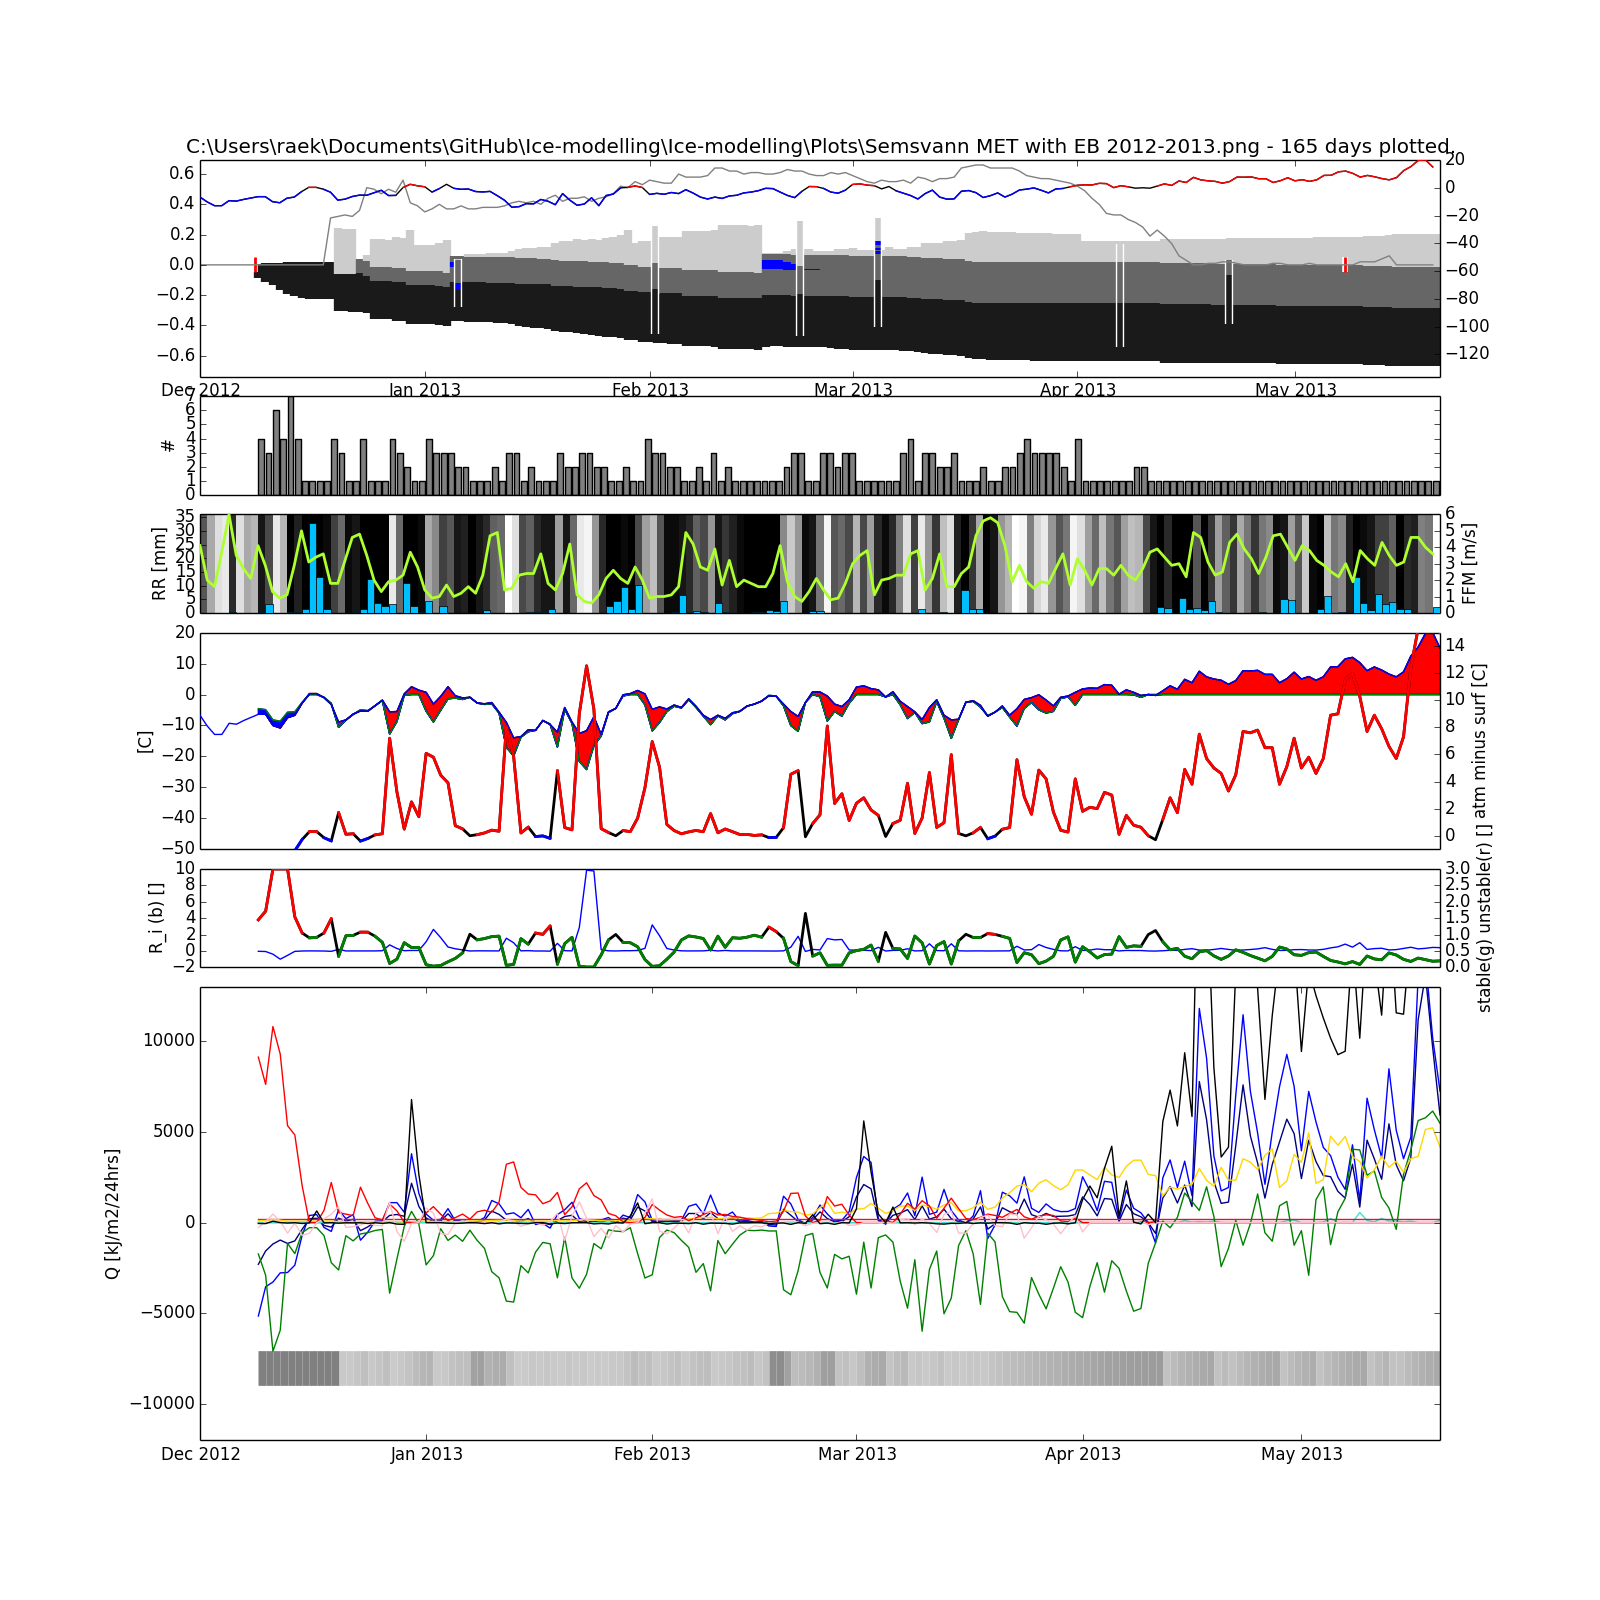
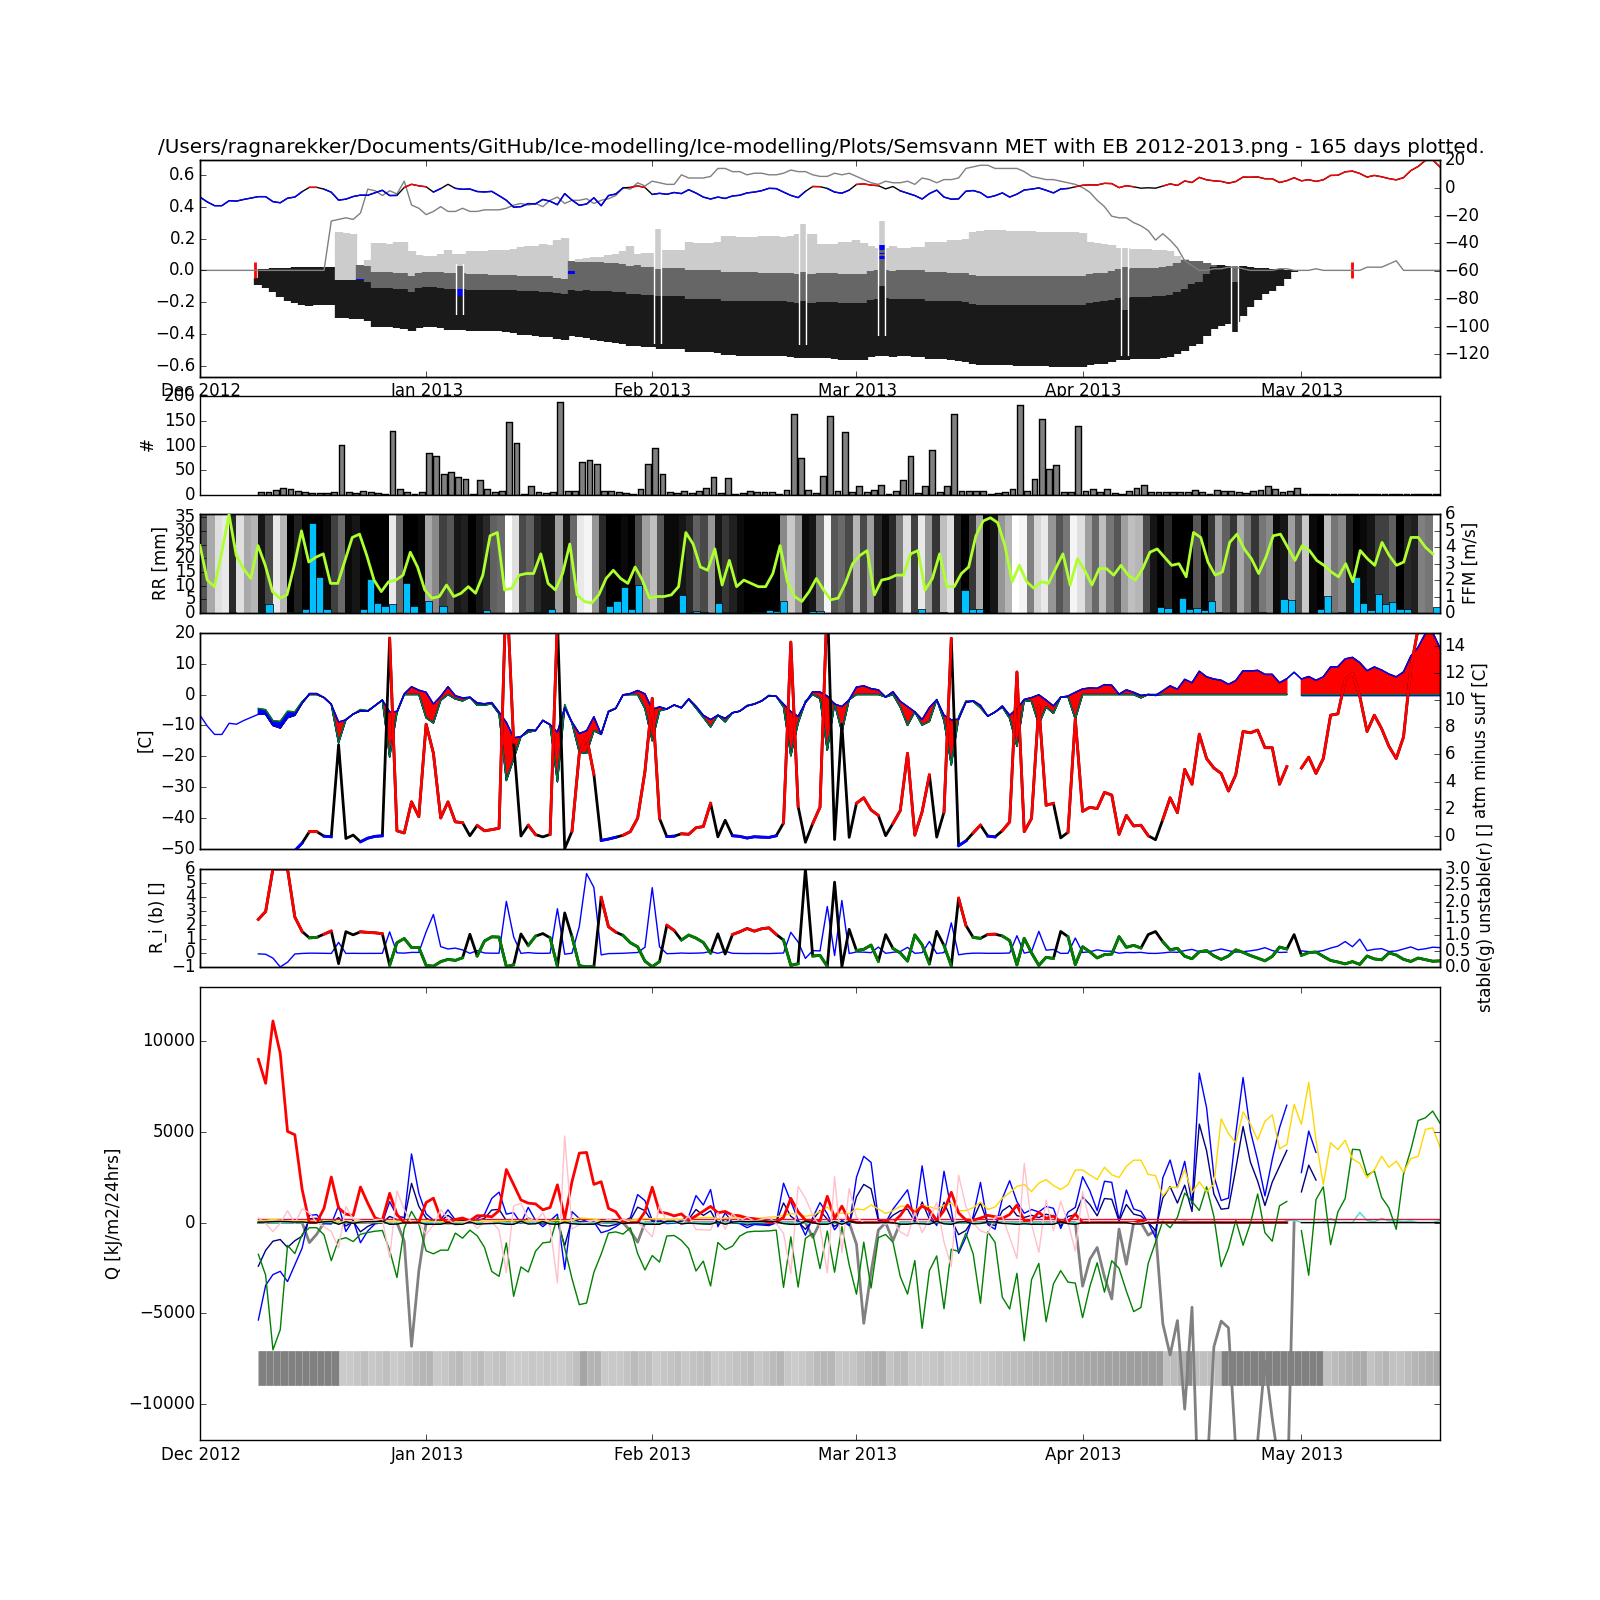
refact eb

diff --git a/Ice-modelling/doenergybalance.py b/Ice-modelling/doenergybalance.py
@@ -106,11 +106,11 @@ def energy_balance_from_temp_sfc(
 
     R = get_prec_heat(temp_atm, prec)
 
-    CC = get_cold_content(ice_column, temp_surface)
+    CC = get_cold_content_change(ice_column, temp_surface)
 
     SC, conductance = get_surface_heat_conduction(ice_column, temp_surface, time_span_in_sec)
 
-    EB = S + (L_a - L_t) + (LE + H) + G + R - CC - SC
+    EB = S + (L_a + L_t) + (LE + H) + G + R + (CC + SC)
 
     # For debugging it is useful to get the date of unnormal activity
     #if EB > 20000.:
@@ -157,7 +157,7 @@ def temp_surface_from_eb(
         based on Newton Raphson method of root finding. Methos itteates to p/m 1 in energy balance in 3-6 iterations.
         x_{n+1} = x_{n} - f(x_{n})/ df(x_{n})/dx
 
-    Step-delta_t:
+    Delta_T:
         iterates with a temperature step proportional with the error in energy balance. For large temperature
         difference between surface and air temp (~10C) this method uses 4-600 iterations to get an accuracy in
         energy baalnce of p/m 100. If I had larger temp steps (fewer iterations) the method some times did
@@ -184,18 +184,16 @@ def temp_surface_from_eb(
 
     """
 
-    temp_sfc = temp_atm     # initial value
+    temp = temp_atm     # initial value
     num_iterations = 0
-    eb_obj = None
     eb_condition = error + 1    # initial value to start while loop
-    melting = False
 
     # calculate energy balances around surface temp to se development.
     debug = False
-    if (ice_column.date).date() == dt.date(2012, 12, 16):    debug = True
+    #if ice_column.date.date() == dt.date(2013, 5, 1):   debug = True
     if debug == True:
         import numpy as np
-        temps_sfc = np.linspace(temp_sfc-10., temp_sfc+10.)
+        temps_sfc = np.linspace(temp-10., temp+10.)
         ebs = []
         for t in temps_sfc:
             eb_check = energy_balance_from_temp_sfc(
@@ -204,37 +202,28 @@ def temp_surface_from_eb(
             ebs.append(eb_check.EB)
         a = 1
 
-    if iteration_method == "Step-delta_t":
+    if iteration_method == "Delta_T":
         while abs(eb_condition) > error:
-            if temp_sfc > 0.:
-                # in this case EB(T_sfc = 0) = Q_melt
-                if melting is True:     # if the melting condition is true already (from previous iteration)
-                    break
-                temp_sfc = 0.
-                melting = True          # condition to avoid calculating EB at surf_temp multiple times-
 
-            eb_obj = energy_balance_from_temp_sfc(
+            eb = energy_balance_from_temp_sfc_value(
                 utm33_x, utm33_y, ice_column, temp_atm, prec, prec_snow, albedo_prim, time_span_in_sec,
-                temp_surface=temp_sfc, age_factor_tau=age_factor_tau, cloud_cover=cloud_cover, wind=wind,
+                temp_surface=temp, age_factor_tau=age_factor_tau, cloud_cover=cloud_cover, wind=wind,
                 pressure_atm=pressure_atm)
-            eb = eb_obj.EB
-            delta_t = abs(eb)/50000
+            delta_t = abs(eb)/10000
 
             if eb > 0.:   # to much energy coming inn.
-                temp_sfc += delta_t
+                temp += delta_t
             if eb < 0.:   # to much energy going out.
-                temp_sfc -= delta_t
+                temp -= delta_t
                 # The melting condition is no longer valid and surface temp can be lowered
-                if melting:
-                    melting = False
 
             num_iterations += 1
             eb_condition = eb
 
 
-    if iteration_method == "Newton-Raphson":
+    if iteration_method == "Newton_Raphson":
 
-        temp_prev = temp_sfc
+        temp_prev = temp
         eb_prev = energy_balance_from_temp_sfc_value(utm33_x, utm33_y, ice_column, temp_atm, prec, prec_snow, albedo_prim, time_span_in_sec, temp_surface=temp_prev, age_factor_tau=age_factor_tau, cloud_cover=cloud_cover, wind=wind, pressure_atm=pressure_atm)
 
         # if eb is positive, to much energy is coming inn and thus the surface temp is to low.
@@ -244,19 +233,26 @@ def temp_surface_from_eb(
         d_eb = (eb-eb_prev)/(temp-temp_prev)
         eb_sign = abs(eb)/eb
 
+        dedt_condition = True       # start with finding new and better temps with derivative.
+
         while abs(eb_condition) > error:
 
             # Update previous iteration values
             eb_sign_prev = abs(eb_prev)/eb_prev
-            temp_temp_prev = temp_prev
+            #temp_temp_prev = temp_prev
             temp_prev = temp
             eb_prev = eb
             d_eb_prev = d_eb
 
             # if eb sign changes, half the temp step and get new eb
             if eb_sign_prev != eb_sign:
-                temp = (temp_prev + temp_temp_prev)/2
+                dedt_condition = False
 
+            if dedt_condition is False:
+                ##### if sign cahnges use last step
+                ##### else keep the "temp on the other side"
+                if eb_sign_prev != eb_sign:
+                    temp = (temp + temp_prev)/2
             # else use the Newton Raphson with derivative
             else:
                 temp = temp_prev - eb_prev/d_eb_prev
@@ -268,16 +264,10 @@ def temp_surface_from_eb(
             num_iterations += 1
             eb_condition = eb
 
-        # Get the full object. Note that in earlier steps only the energy balance value is requested.
-        eb_obj = energy_balance_from_temp_sfc(
-            utm33_x, utm33_y, ice_column, temp_atm, prec, prec_snow, albedo_prim, time_span_in_sec,
-            temp_surface=temp, age_factor_tau=age_factor_tau, cloud_cover=cloud_cover, wind=wind,
-            pressure_atm=pressure_atm)
 
+    if iteration_method == "Newton_Raphson_kopi":
 
-    if iteration_method == "Newton-Raphson-II":
-
-        temp_prev = temp_sfc
+        temp_prev = temp
         eb_prev = energy_balance_from_temp_sfc_value(utm33_x, utm33_y, ice_column, temp_atm, prec, prec_snow, albedo_prim, time_span_in_sec, temp_surface=temp_prev, age_factor_tau=age_factor_tau, cloud_cover=cloud_cover, wind=wind, pressure_atm=pressure_atm)
 
         # if eb is positive, to much energy is coming inn and thus the surface temp is to low.
@@ -329,21 +319,24 @@ def temp_surface_from_eb(
             else:
                 melting = False
 
+    # if temp surf is above freezing temp, get energy balance at freezing and
+    # transfer energy to surface melt.
+    if temp > const.temp_f:
+        eb_obj = energy_balance_from_temp_sfc(
+           utm33_x, utm33_y, ice_column, temp_atm, prec, prec_snow, albedo_prim, time_span_in_sec,
+           temp_surface=const.temp_f, age_factor_tau=age_factor_tau, cloud_cover=cloud_cover, wind=wind,
+           pressure_atm=pressure_atm)
+        eb_obj.add_surface_melt(-1 * eb_obj.EB)
+        eb_obj.EB = 0.
+    else:
         # Get the full object. Note that in earlier steps only the energy balance value is requested.
         eb_obj = energy_balance_from_temp_sfc(
             utm33_x, utm33_y, ice_column, temp_atm, prec, prec_snow, albedo_prim, time_span_in_sec,
             temp_surface=temp, age_factor_tau=age_factor_tau, cloud_cover=cloud_cover, wind=wind,
             pressure_atm=pressure_atm)
+        eb_obj.add_surface_melt(0.)
 
     eb_obj.add_iterations(num_iterations)
-
-    # transfer energy to surface melt if we have melting conditions
-    if eb_obj.temp_surface > 0.:
-        eb_obj.add_surface_melt(-1 * eb_obj.EB)
-        eb_obj.temp_surface = 0.
-        eb_obj.EB = 0.
-    else:
-        eb_obj.add_surface_melt(0.)
 
     return eb_obj
 
@@ -671,7 +664,7 @@ def get_long_wave(cloud_cover, temp_atm, temp_surface, snow_depth, is_ice, time_
         eps_surface = const.eps_water         # water emissivity is the same as snow emidsitivity
 
     L_a = eps_atm * sigma * (temp_atm - const.absolute_zero)**4            # temp_atm skal være i Celsisus. Atmosfærisk innstsåling
-    L_t = eps_surface * sigma * (temp_surface - const.absolute_zero)**4    # terrestrisk utstråling emmisivity for snø er 0.97, er ogsÂ brukt for bar bakke, se Dingman p.583
+    L_t = -1 * eps_surface * sigma * (temp_surface - const.absolute_zero)**4    # terrestrisk utstråling emmisivity for snø er 0.97, er ogsÂ brukt for bar bakke, se Dingman p.583
 
     L_a *= time_span_in_sec
     L_t *= time_span_in_sec
@@ -710,7 +703,7 @@ def get_sensible_and_latent_heat(temp_atm, temp_surface, time_span_in_sec, ice_c
     zt = 10                         # Høyde på lufttemperatur målinger
     #z_0 = const.z_snow              # ruhetsparameter for snø
     z_0 = ice_column.column[0].get_surface_roughness()
-    z_tau = z_0 * 10**-3            # surf roughness for sensible heat
+    z_tau = z_0 * 10**-3  # surf roughness for sensible heat
     d = ice_column.get_snow_height()    # Zeroplane displecement for snow. I.e correction for snowdepth.
     zh = const.z_vapour             # varme og damp ruhets
 
@@ -806,7 +799,7 @@ def get_prec_heat(temp_atm, prec):
     return R
 
 
-def get_cold_content(ice_column, temp_surf):
+def get_cold_content_change(ice_column, temp_surf):
     """Change in heat storage (cold content) of the snow and ice. This is the difference in
     cold content from yesterday to today.
 
@@ -843,38 +836,23 @@ def get_cold_content(ice_column, temp_surf):
 
 
 def get_surface_heat_conduction(ice_column, temp_surface, time_span_in_sec):
-    """Heat conduction driven by the temperature difference between surface temp and the avarage temperature
-    in an effective surface thickness. It is SC that drives ice generation. At temp_surf = 0 => SC = 0. Thus EB melts.
-
-        SC = alpha * rho * C * (temp_surf - temp_avg) / Z
-
-        alpha: thermal diffusivity
-        rho:   density
-        C:     specific heat capasciuty
-        Z:     surf effektive temp depth
-
-    I believe this was the calculation in the original UEB model.
-    Should probably do something with max conductance pr 24hs which defines max depth...
+    """Heat conduction driven by the temperature difference between surface temp and freezing temp
+    at the bottom of the ice. This assumes that the temperature gradient is at steady state, which
+    is the assumption for cahning the ice ticknes in the doicethickness module.
+    At temp_surf = 0 => SC = 0.
+    At temp_surf < 0, SC > 0. I.e. when it is freezing enegy goes from water due to freezing.
 
     :param ice_column:
     :param temp_surface:
+    :param time_span_in_sec
     :return:
     """
 
-    # find the active height of the current column; given by the surface conductance.
-    # get layer object properties with heith of the layers top and distance to active height
-    # get conductance over the active height
-
-    #active_height = ice_column.get_depth_at_conductance(const.U_surface)
-    #layer, layer_top, rest = ice_column.get_layer_at_z(active_height)
-
     surface_conductance = ice_column.get_conductance_at_z()  # should return U_surface
 
-    #temp_eff = layer.temperature_top + (layer.temperature_bottom-layer.temperature_top) * rest/layer.height
-
-    SC = (temp_surface)*surface_conductance
-    SC *= time_span_in_sec  # energy over 24hrs
-    SC /= 1000              # J to kJ
+    SC = -temp_surface*surface_conductance   # freezing temp is 0C
+    SC *= time_span_in_sec                  # energy over 24hrs
+    SC /= 1000                              # J to kJ
 
     return SC, surface_conductance
 

diff --git a/Ice-modelling/makePlots.py b/Ice-modelling/makePlots.py
@@ -312,17 +312,17 @@ def plotIcecoverEB(icecover, energy_balance, observed_ice, date, temp, snotot, f
             itterations.append(eb.iterations)
             EB.append(eb.EB)
             S.append(eb.S)
-            L.append(eb.L_a-eb.L_t)
+            L.append(eb.L_a+eb.L_t)
             H.append(eb.H)
             LE.append(eb.LE)
             R.append(eb.R)
             G.append(eb.G)
             s_inn.append(eb.s_inn)
             albedo.append(eb.albedo)
-            SC.append(-eb.SC)
+            SC.append(eb.SC)
             R_i.append(eb.R_i)
             stability_correction.append(eb.stability_correction)
-            CC.append(-eb.CC)
+            CC.append(eb.CC)
             SM.append(eb.SM)
 
 
@@ -439,7 +439,7 @@ def plotIcecoverEB(icecover, energy_balance, observed_ice, date, temp, snotot, f
             plb.hlines(-8000, date[i], date[i + 1], lw=25, color="1.0")
 
 
-    plb.plot(date, SM, "gray")
+    plb.plot(date, SM, "gray", lw=2)
     plb.plot(date, H, "blue")
     plb.plot(date, LE, "navy")
     plb.plot(date, R, "turquoise")
@@ -447,7 +447,7 @@ def plotIcecoverEB(icecover, energy_balance, observed_ice, date, temp, snotot, f
     plb.plot(date, L, "green", lw=1)
     plb.plot(date, S, "gold", lw=1)
     #plb.plot(date, s_inn, "gold", lw=1)
-    plb.plot(date, SC, "red", lw=1)
+    plb.plot(date, SC, "red", lw=2)
     plb.plot(date, CC, "pink", lw=1)
     plb.plot(date, EB, "black")
 

diff --git a/Ice-modelling/doicethickness.py b/Ice-modelling/doicethickness.py
@@ -44,7 +44,7 @@ def get_ice_thickness_from_energy_balance(
         energy_balance = deb.temp_surface_from_eb(
             utm33_x, utm33_y, ice_column, temp_atm, prec, prec_snow, albedo_prim, time_span_in_sec,
             error=100., age_factor_tau=age_factor_tau, cloud_cover=cloud_cover, wind=wind, pressure_atm=pressure_atm,
-            iteration_method="Newton-Raphson-II")
+            iteration_method="Delta_T")
 
         surface_temp = energy_balance.temp_surface
         out_column = None
@@ -201,7 +201,7 @@ def get_ice_thickness_from_surface_temp(ic, time_step, dh_snow, temp, melt_energ
                 else:
                     # energy available to melt used with latent heat of fusion (delta_h = Q/L/rho)
                     L_ice = const.L_black_ice/1000.    # Joule to Kilo Joule
-                    dh = -1 * melt_energy / L_ice / ic.column[0].density * time_step/24/60/60
+                    dh = melt_energy / L_ice / ic.column[0].density * time_step/24/60/60
 
                     # if layer is thinner than total melting the layer is removed and the rest of melting occurs
                     # in the layer below for the reminder of time. melting (dh) and time are proportional in the degreeday equation
